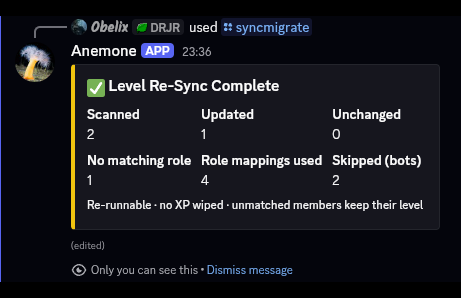
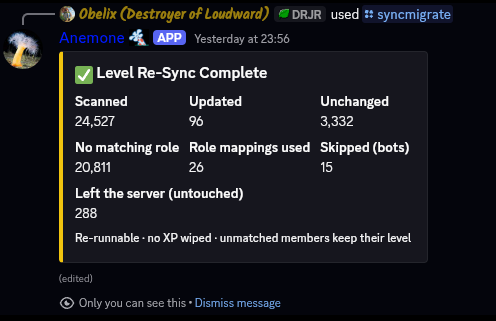
evidence/: real 24,527-member syncmigrate run replaces the 2-member test shot

Changed region(s): [[0.0, 0.0, 0.9414, 0.9664], [0.8807, 0.755, 0.9414, 0.7852], [0.8807, 0.2114, 0.9414, 0.2416]]

diff --git a/evidence/README.md b/evidence/README.md
@@ -4,22 +4,34 @@ Screenshots for the privileged-intent review of **Anemone** (application ID 1513
 Every image is a capture of the running bot in a real server. This folder is the public, non-expiring host the
 form's evidence links point at.
 
-## The five images
+## The images
 
-| file | where it was taken | what it shows | weight |
-|---|---|---|---|
-| `01-syncmigrate-walk.png` | bot testing server (4 members) | `/syncmigrate` run by Obelix; Anemone replies **Level Re-Sync Complete — Scanned 2, Updated 1, No matching role 1, Role mappings used 4, Skipped (bots) 2** | ⚠ weak: a 2-member scan does not demonstrate the member-list need. Re-take in AI Sponge: Rehydrated (24,254 members, 26 mappings) |
-| `02-levelrole-list.png` | bot testing server (4 members) | `/levelrole list` — 4 mappings: Level 5/10/15/20 → @Level 5/10/15/20 | ⚠ same: shows 4 rows, not the 26 configured in AI Sponge |
-| `03-levelup-announcements.png` | ♡ gensokyo afterhours | a day of level-up posts: **Congratulations {member}! You reached Level N!** — members at levels 1-24 | partial: proves level-ups are flowing, but shows no role arriving, and the bot appears under that server's nickname "Judgement Bot" (same application — username is Anemone) |
-| `04-commands-in-action.png` | — | `/level` rendering a rank card (Level 20, Rank #1, 20,509 total XP) and `/customize` opening the card-customisation panel | strong: the member-facing surface in use |
-| `05-audit-log-role-changes.png` | AI Sponge: Rehydrated | Audit Log filtered to **Anemone**: 11 "updated roles for <member>" entries with dates | strong: the bot's role work as the server itself records it |
+### `01-syncmigrate-walk.png` — the decisive exhibit
 
-## Before submitting
+`/syncmigrate` run by the operator in **AI Sponge: Rehydrated** (24,254 members), completed 2026-11-10 23:56,
+reply ephemeral:
 
-1. Re-take `01` in **AI Sponge: Rehydrated** and let it finish, so the reply reports a scan in the thousands.
-2. Re-take `02` in the same server so it lists the 26 AI Sponge mappings.
-3. `03` is acceptable as "the leveling product works", but the decisive role evidence is `05`. If a member
-   panel showing stacked threshold roles is easy to capture, that is the stronger version.
+```
+Level Re-Sync Complete
+Scanned 24,527   Updated 96   Unchanged 3,332
+No matching role 20,811   Role mappings used 26   Skipped (bots) 15
+Left the server (untouched) 288
+```
+
+Measured against a database snapshot taken immediately before the run: the 96 updated members rose by **289 level
+steps in total, largest single rise +10**, **0 members were lowered**, and **0 XP was removed** — the write is a
+floor (`apply_level_floor`), so a member already above the tier is a no-op and in-level progress survives.
+
+`01b-syncmigrate-progress.png` is the mid-run frame from the same run: *"125/24527 members scanned…"*.
+
+### The rest
+
+| file | where | what it shows |
+|---|---|---|
+| `02-levelrole-list.png` | ⚠ bot testing server | `/levelrole list` — only 4 rows (Level 5/10/15/20). Re-take in AI Sponge so it lists the 26 mappings the run above used, or leave it out of the form. |
+| `03-levelup-announcements.png` | ♡ gensokyo afterhours | a day of level-up posts: **Congratulations {member}! You reached Level N!** The bot carries that server's nickname "Judgement Bot"; the username is Anemone — same application. |
+| `04-commands-in-action.png` | — | `/level` rank card (Level 20, Rank #1, 20,509 total XP) and `/customize` opening the card panel. |
+| `05-audit-log-role-changes.png` | AI Sponge: Rehydrated | Audit Log filtered to **Anemone**: 11 "updated roles for <member>" entries with dates. |
 
 ## Rules for the links
 
